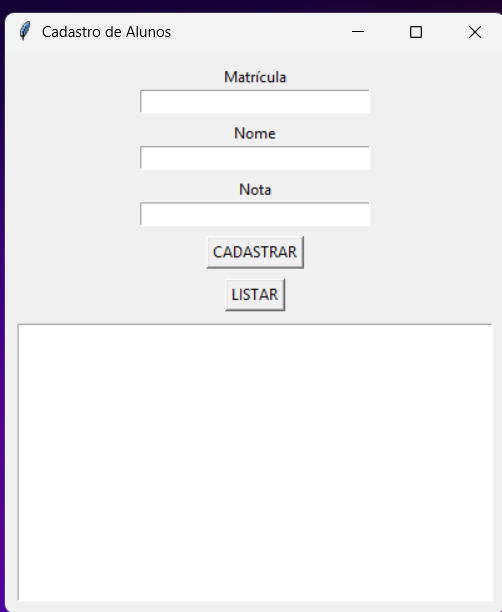
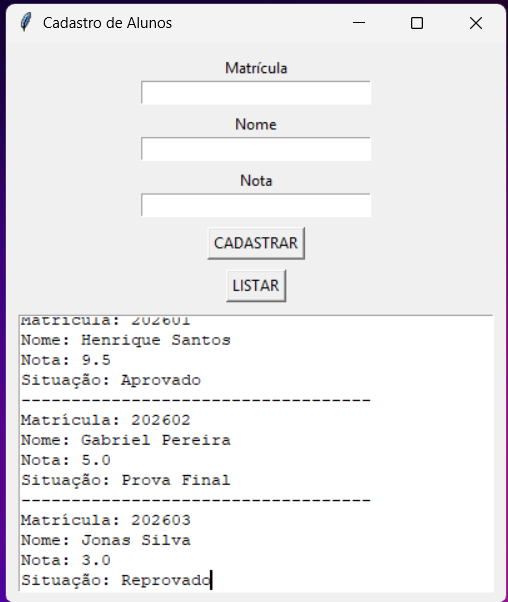
Adiciona cadastro de alunos com POO e capturas

diff --git a/Python/cadastro-alunos-poo/cadastro_alunos.py b/Python/cadastro-alunos-poo/cadastro_alunos.py
@@ -1,0 +1,127 @@
+import tkinter as tk
+from tkinter import messagebox
+
+
+# Classe que representa cada aluno
+class Aluno:
+    def __init__(self, matricula, nome, nota):
+        self.matricula = matricula
+        self.nome = nome
+        self.nota = nota
+
+    def situacao(self):
+        if self.nota >= 6:
+            return "Aprovado"
+        elif self.nota >= 4:
+            return "Prova Final"
+        else:
+            return "Reprovado"
+
+
+# Lista que armazena os alunos
+alunos = []
+
+
+def cadastrar():
+    try:
+        matricula = int(entrada_matricula.get().strip())
+        nome = entrada_nome.get().strip()
+        nota = float(entrada_nota.get().strip().replace(",", "."))
+    except ValueError:
+        messagebox.showerror(
+            "Erro",
+            "Matrícula e nota devem ser numéricas!"
+        )
+        return
+
+    if nome == "":
+        messagebox.showwarning("Aviso", "Informe o nome do aluno!")
+        return
+
+    if matricula <= 0:
+        messagebox.showwarning(
+            "Aviso",
+            "A matrícula deve ser um número inteiro positivo!"
+        )
+        return
+
+    if not 0 <= nota <= 10:
+        messagebox.showwarning(
+            "Aviso",
+            "A nota deve estar entre 0 e 10!"
+        )
+        return
+
+    for aluno in alunos:
+        if aluno.matricula == matricula:
+            messagebox.showwarning(
+                "Aviso",
+                "Já existe um aluno com essa matrícula!"
+            )
+            return
+
+    aluno = Aluno(matricula, nome, nota)
+    alunos.append(aluno)
+
+    messagebox.showinfo("Sucesso", "Aluno cadastrado!")
+
+    entrada_matricula.delete(0, tk.END)
+    entrada_nome.delete(0, tk.END)
+    entrada_nota.delete(0, tk.END)
+    entrada_matricula.focus_set()
+
+
+def listar():
+    area_exibicao.delete("1.0", tk.END)
+
+    if not alunos:
+        area_exibicao.insert(tk.END, "Nenhum aluno cadastrado.\n")
+        return
+
+    for aluno in alunos:
+        area_exibicao.insert(
+            tk.END,
+            f"Matrícula: {aluno.matricula}\n"
+            f"Nome: {aluno.nome}\n"
+            f"Nota: {aluno.nota:.1f}\n"
+            f"Situação: {aluno.situacao()}\n"
+            + "-" * 35
+            + "\n"
+        )
+
+
+# Janela principal
+janela = tk.Tk()
+janela.title("Cadastro de Alunos")
+janela.geometry("400x450")
+
+tk.Label(janela, text="Matrícula").pack(pady=(10, 0))
+entrada_matricula = tk.Entry(janela, width=30)
+entrada_matricula.pack()
+
+tk.Label(janela, text="Nome").pack(pady=(5, 0))
+entrada_nome = tk.Entry(janela, width=30)
+entrada_nome.pack()
+
+tk.Label(janela, text="Nota").pack(pady=(5, 0))
+entrada_nota = tk.Entry(janela, width=30)
+entrada_nota.pack()
+
+tk.Button(
+    janela,
+    text="CADASTRAR",
+    command=cadastrar
+).pack(pady=8)
+
+tk.Button(
+    janela,
+    text="LISTAR",
+    command=listar
+).pack()
+
+area_exibicao = tk.Text(janela, width=45, height=12)
+area_exibicao.pack(padx=10, pady=10, fill=tk.BOTH, expand=True)
+
+entrada_matricula.focus_set()
+
+janela.mainloop()

diff --git a/Python/cadastro-alunos-poo/README.md b/Python/cadastro-alunos-poo/README.md
@@ -1,0 +1,22 @@
+# Cadastro de alunos com Python e Tkinter
+
+Programa de cadastro feito com interface gráfica, classes e objetos. Cada aluno tem matrícula, nome e nota; a situação é calculada automaticamente.
+
+## Capturas da execução
+
+### Tela inicial
+![Tela inicial](imagens/tela-inicial.png)
+
+### Cadastro realizado
+![Mensagem de sucesso](imagens/cadastro-sucesso.png)
+
+### Listagem dos alunos
+![Alunos cadastrados e suas situações](imagens/listagem-alunos.png)
+
+## Como executar
+
+Com Python 3 instalado e Tkinter disponível:
+
+```bash
+python cadastro_alunos.py
+```
